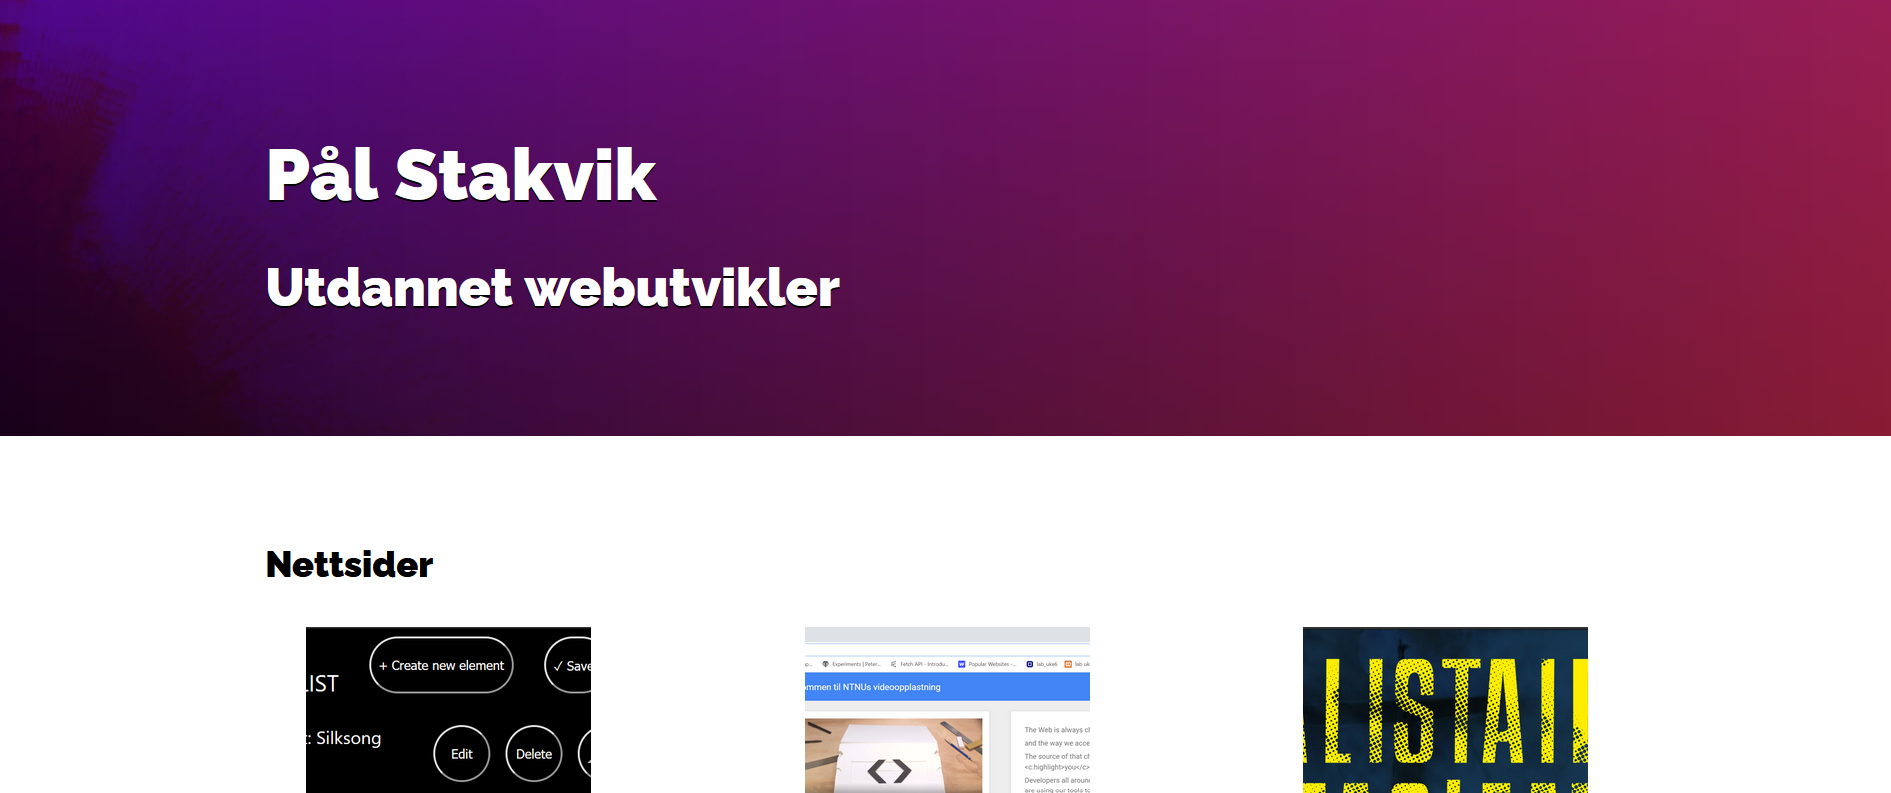
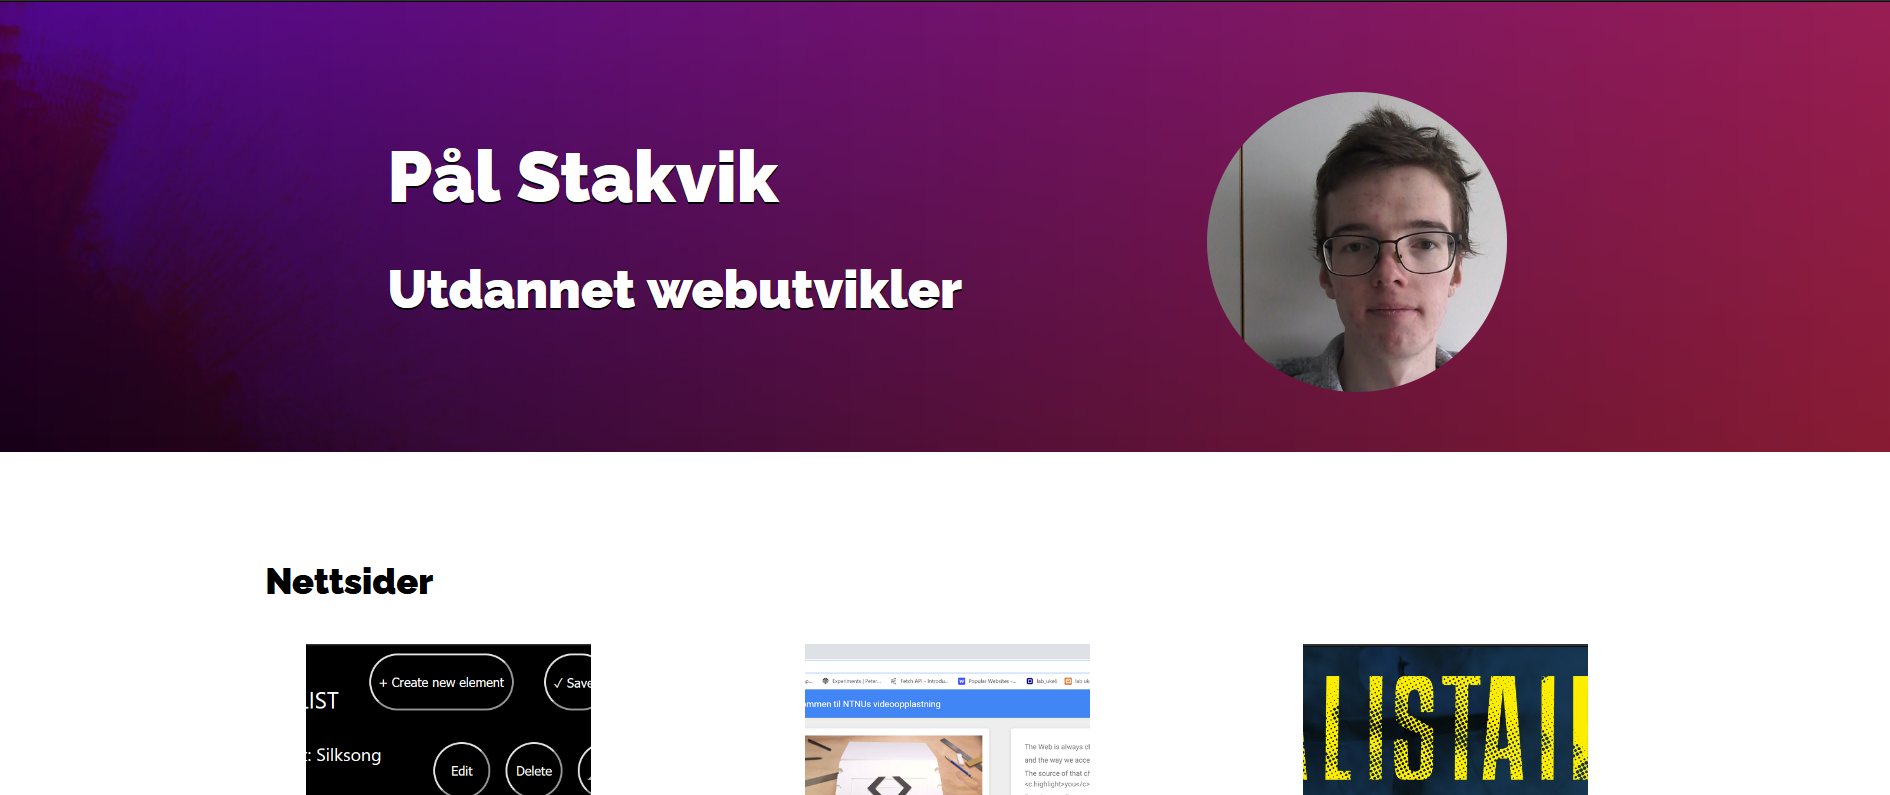
Legger til profilbilde

diff --git a/style.css b/style.css
@@ -72,6 +72,9 @@
     font-weight: 900;
     line-height: 3rem;
   }
+  .index header .circle-frame {
+    display: none;
+  }
   .work header a {
     color: #fff;
     font-size: 3rem;
@@ -217,6 +220,28 @@
     padding-left: 14%;
     padding-right: 14%;
   }
+  .index header {
+    display: flex;
+    justify-content: space-around;
+  }
+  .index header .circle-frame {
+    /* margin-left: 5%; */
+    margin-top: -40px;
+    /* flytt over header's padding-top */
+    display: flex;
+    justify-content: center;
+    align-items: flex-start;
+    /* ^^ align-items: center (default) vil plassere bildet slik at toppen av bildet slettes ved overflow hidden, og .index header img {…} da ikke vil ha noe å hente  */
+    max-width: 200px;
+    max-height: 200px;
+    border-radius: 200px;
+    overflow: hidden;
+  }
+  header img {
+    margin-top: -50px;
+    width: 140%;
+    object-fit: cover;
+  }
   /* .about .flex {
     display: flex;
     flex-direction: column;
@@ -245,11 +270,4 @@
   .index .box .frame {
     height: 170px;
   }
-}
-
-@media only screen and (min-width: 1200px) {
-  /* main {} */
-  /* .index .box {
-    margin: 40px 4.5%;
-  } */
 }

diff --git a/index.html b/index.html
@@ -2,7 +2,6 @@
 <html lang="en">
 
 <head>
-  <!-- <script src="addToHead.js"></script> -->
   <meta charset="UTF-8">
   <meta name="viewport" content="width=device-width, initial-scale=1.0">
   <title>Påls portefølje</title>
@@ -13,13 +12,17 @@
 
 <body class="index">
   <header>
-    <h1>Pål Stakvik</h1>
-    <p class="tagline">Utdannet webutvikler</p>
+    <div>
+      <h1>Pål Stakvik</h1>
+      <p class="tagline">Utdannet webutvikler</p>
+    </div>
+    <div class="circle-frame">
+      <img src="images/cvphoto1.jpg" alt="Pål Stakvik">
+    </div>
   </header>
   <main>
     <h2>Nettsider</h2>
     <div class="flex">
-
       <a href="webWork/rankingapp.html" class="box">
         <div class="frame">
           <img src="webWork/images/rankingapp.png" alt="ranking webapp">
@@ -40,7 +43,6 @@
         </div>
         <h3>Alistair MacLean redesign</h3>
       </a>
-
     </div>
   </main>
   <footer></footer>
